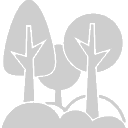
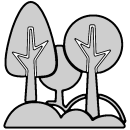
final

Changed region(s): [[0.0, 0.0, 1.0, 1.0]]

diff --git a/ProyectoNaturAdventureWeb/WebContent/css/styleIndex.css b/ProyectoNaturAdventureWeb/WebContent/css/styleIndex.css
@@ -108,10 +108,8 @@
 }
 .headerBackground {
 	width-max: 125%;
-	/*height: 250px;*/
 	height: 270px;
-	background: url("../images/header2.jpg") no-repeat 100%;
-	/*opacity: 0.9;*/
+	background: url("../images/header3.jpg") no-repeat 100%;
 	
 }
 .titlePage {
@@ -121,70 +119,19 @@
 	font-size: 90px;
 	color: #cecece;
 	margin: 0px;
-	/*text-stroke: 2px black;
-	-webkit-text-stroke: 2px black;
-	-moz-text-stroke: 2px black;
-	-o-text-stroke: 2px black;
-	-ms-text-stroke: 2px black;
-	
-	color: white;*/
     text-shadow:
     -2px -2px 0 #000,
     2px -2px 0 #000,
     -2px 2px 0 #000,
     2px 2px 0 #000;
-	/*
-	text-shadow: 2px 3px 1px black;
-	-webkit-text-shadow: 2px 3px 1px black;
-	-moz-text-shadow: 2px 3px 1px black;
-	-o-text-shadow: 2px 3px 1px black;
-	-ms-text-shadow: 2px 3px 1px black;
-	
-	font-family: 'Londrina Solid', cursive;
-	text-align: center;
-	color: #cecece;
-	margin: 0px;
-	font-size: 80px;
-	font-style: italic;
-	font-weight: 400;
-	position: relative;
-	font-family: 'Chicle', cursive;
-	/*font-family: 'Myriad Pro', 'Myriad', helvetica, arial, sans-serif;*/
-	
-	/*
-	
-	letter-spacing: -3px;
-	text-stroke: 2px black;
-	-webkit-text-stroke: 2px black;
-	-moz-text-stroke: 2px black;
-	-o-text-stroke: 2px black;
-	-ms-text-stroke: 2px black;
-	
-	text-shadow: 2px 2px 2px black;
-	-webkit-text-shadow: 2px 2px 2px black;
-	-moz-text-shadow: 2px 2px 2px black;
-	-o-text-shadow: 2px 2px 2px black;
-	-ms-text-shadow: 2px 2px 2px black;*/
+
 }
 
 .iconPage {
-	background: url("../images/icono128v3.png") no-repeat 100%;
+	background: url("../images/icon.png") no-repeat 100%;
 	background-position: center;
 	padding-top: 150px;
 	text-align: center;
-	
-	filter: drop-shadow(2px 2px 2px black) drop-shadow(-2px -2px 2px black);
-    -webkit-filter: drop-shadow(2px 2px 2px black) drop-shadow(2px 2px 2px black);
-	-moz-filter: drop-shadow(2px 2px 2px black) drop-shadow(2px 2px 2px black);
-	-o-filter: drop-shadow(2px 2px 2px black) drop-shadow(2px 2px 2px black);
-	-ms-filter: drop-shadow(2px 2px 2px black) drop-shadow(2px 2px 2px black);
-    /*
-    
-    filter: brightness(40%);
-	-webkit-filter: brightness(20%);
-	-moz-filter: brightness(80%);
-	-o-filter: brightness(80%);
-	-ms-filter: brightness(80%);*/
 }
 
 
